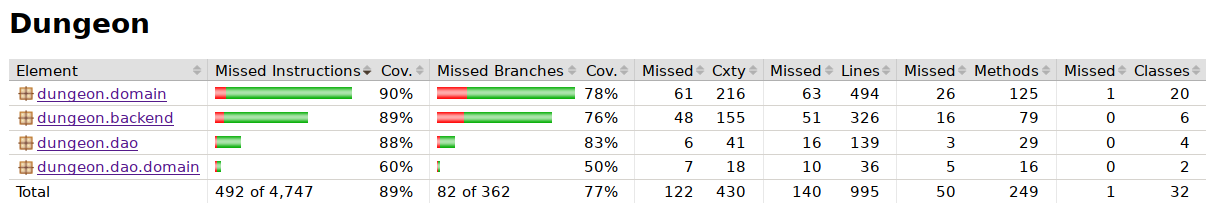
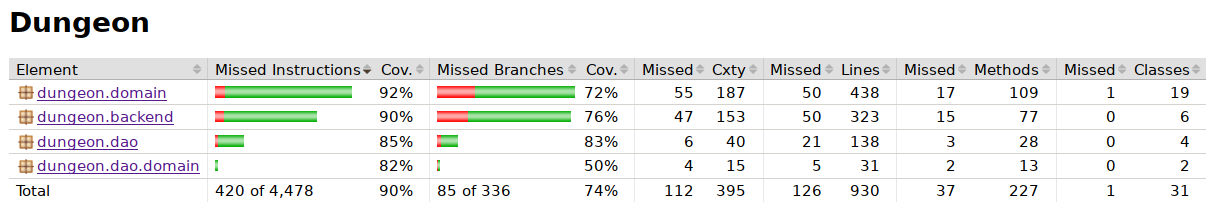
removed dead code

diff --git a/Dungeon/src/main/java/dungeon/domain/Node.java b/Dungeon/src/main/java/dungeon/domain/Node.java
@@ -43,18 +43,8 @@ public class Node implements Comparable<Node> {
         return this;
     }
 
-    public Node translate(Direction direction, int distance) {
-        this.x += direction.getDifferenceX();
-        this.y += direction.getDifferenceY();
-        return this;
-    }
-
     public Node translateToNew(Direction direction) {
         return new Node(this.x + direction.getDifferenceX(), this.y + direction.getDifferenceY());
-    }
-
-    public Node translateToNew(Direction direction, int distance) {
-        return new Node(this.x + direction.getDifferenceX(), this.y + direction.getDifferenceY(), distance);
     }
 
     public double differenceTo(Node that) {
@@ -71,11 +61,23 @@ public class Node implements Comparable<Node> {
         return this.distance - that.distance;
     }
 
+    /**
+     * For HashMaps. I'm not going to take risks by removing this.
+     *
+     * @return
+     */
     @Override
     public int hashCode() {
         return y * 10000 + y;
     }
 
+    /**
+     * Can't remember if I've used a List of Nodes or a Map of Nodes anywhere in
+     * code or in testing. This may be needed.
+     *
+     * @param o
+     * @return
+     */
     @Override
     public boolean equals(Object o) {
         if (o == null || o.getClass() != this.getClass()) {
@@ -85,10 +87,4 @@ public class Node implements Comparable<Node> {
         Node that = (Node) o;
         return this.x == that.x && this.y == that.y;
     }
-
-    @Override
-    public String toString() {
-        return "(" + x + ", " + y + ")";
-    }
-
 }

diff --git a/Dungeon/src/main/java/dungeon/domain/Direction.java b/Dungeon/src/main/java/dungeon/domain/Direction.java
@@ -3,9 +3,6 @@
  */
 package dungeon.domain;
 
-import java.util.ArrayList;
-import java.util.List;
-
 public enum Direction {
 
     /* this enumerator should map directions to movements */
@@ -18,14 +15,6 @@ public enum Direction {
     EAST(1, 0, 100),
     NORTHEAST(1, -1, 141);
 
-    private final static List<Direction> CARDINAL = new ArrayList<Direction>() {
-        {
-            add(NORTH);
-            add(WEST);
-            add(SOUTH);
-            add(EAST);
-        }
-    };
     private final int differenceX;
     private final int differenceY;
     private final int cost;
@@ -34,10 +23,6 @@ public enum Direction {
         this.differenceX = differenceX;
         this.differenceY = differenceY;
         this.cost = cost;
-    }
-
-    public List<Direction> cardinal() {
-        return CARDINAL;
     }
 
     public int getDifferenceX() {
@@ -50,25 +35,5 @@ public enum Direction {
 
     public int cost() {
         return cost;
-    }
-
-    public Direction opposite() {
-        if (this == NORTH) {
-            return SOUTH;
-        } else if (this == NORTHWEST) {
-            return SOUTHEAST;
-        } else if (this == WEST) {
-            return EAST;
-        } else if (this == SOUTHWEST) {
-            return NORTHEAST;
-        } else if (this == SOUTH) {
-            return NORTH;
-        } else if (this == SOUTHEAST) {
-            return NORTHWEST;
-        } else if (this == EAST) {
-            return WEST;
-        } else {
-            return SOUTHWEST;
-        }
     }
 }

diff --git a/Dungeon/src/main/java/dungeon/ui/TileMapper.java b/Dungeon/src/main/java/dungeon/ui/TileMapper.java
@@ -42,14 +42,6 @@ public class TileMapper {
         this.tileSet = new Image(filename);
     }
 
-    public void drawFrame(char[][] map, double[][] losMap, int centerX, int centerY) {
-        int offsetX = centerX - resolutionX / tileSize / 2;
-        int offsetY = centerY - resolutionY / tileSize / 2;
-
-        drawGrid(offsetX, offsetY, map);
-        drawGrid(offsetX, offsetY, losMap);
-    }
-
     public void drawFrame(char[][] levelMap, MapObject[][] objectMap, double[][] losMap, int centerX, int centerY) {
         int offsetX = centerX - resolutionX / tileSize / 2;
         int offsetY = centerY - resolutionY / tileSize / 2;
@@ -58,12 +50,6 @@ public class TileMapper {
         drawGrid(offsetX, offsetY, objectMap);
         drawGrid(offsetX, offsetY, losMap);
     }
-
-    public void drawDebugFrame(char[][] map, double[][] losMap, Color[][] colors, int centerX, int centerY) {
-        drawFrame(map, losMap, centerX, centerY);
-        drawColorMap(colors, centerX, centerY);
-    }
-
     public void drawDebugFrame(char[][] levelMap, MapObject[][] objectMap, double[][] losMap, Color[][] colors, int centerX, int centerY) {
         drawFrame(levelMap, objectMap, losMap, centerX, centerY);
         drawColorMap(colors, centerX, centerY);

diff --git a/Dungeon/src/main/java/dungeon/domain/DijkstraMap.java b/Dungeon/src/main/java/dungeon/domain/DijkstraMap.java
@@ -200,39 +200,4 @@ public class DijkstraMap {
         }
         return changed;
     }
-
-    @Override
-    public String toString() {
-        StringBuilder sb = new StringBuilder();
-        if (checkUnformatted()) {
-            return "unformatted array";
-        }
-        for (int y = 0; y < values.length; y++) {
-            for (int x = 0; x < values[0].length; x++) {
-                appendCharacter(y, x, sb);
-            }
-            sb.append("\n");
-        }
-        return sb.toString();
-    }
-
-    private void appendCharacter(int y, int x, StringBuilder sb) {
-        if (values[y][x] != Integer.MAX_VALUE) {
-            if (values[y][x] == 0) {
-                sb.append(".");
-            } else {
-                sb.append((values[y][x] / 100) % 10);
-            }
-        } else {
-            sb.append("#");
-        }
-    }
-
-    private boolean checkUnformatted() {
-        int max = max();
-        if (max == 0) {
-            return true;
-        }
-        return false;
-    }
 }

diff --git a/Dungeon/src/main/java/dungeon/domain/Actor.java b/Dungeon/src/main/java/dungeon/domain/Actor.java
@@ -77,10 +77,6 @@ public abstract class Actor implements Comparable<Actor>, MapObject {
         return nextTurn;
     }
 
-    public void setHealth(int health) {
-        this.health = health;
-    }
-
     public void setMaxHealth(double maxHealth) {
         this.maxHealth = maxHealth;
     }
@@ -91,10 +87,6 @@ public abstract class Actor implements Comparable<Actor>, MapObject {
 
     public Node getPosition() {
         return position;
-    }
-
-    public void setPosition(Node position) {
-        this.position = position;
     }
 
     public double getHealth() {

diff --git a/Dungeon/src/main/java/dungeon/domain/Monster.java b/Dungeon/src/main/java/dungeon/domain/Monster.java
@@ -61,18 +61,6 @@ public class Monster extends Actor {
         this.state = state;
     }
 
-    public void setVisionRatio(double visionRatio) {
-        this.visionRatio = visionRatio;
-    }
-
-    public void setAlertRadius(double alertRadius) {
-        this.alertRadius = alertRadius;
-    }
-
-    public double getFleeThreshold() {
-        return fleeThreshold;
-    }
-
     public void setFleeThreshold(double fleeThreshold) {
         this.fleeThreshold = fleeThreshold;
     }

diff --git a/Dungeon/src/main/java/dungeon/dao/domain/Record.java b/Dungeon/src/main/java/dungeon/dao/domain/Record.java
@@ -44,21 +44,8 @@ public class Record {
         this.id = id;
     }
 
-    public void setScore(Integer score) {
-        this.score = score;
-    }
-
-    public void setDifficulty(Difficulty difficulty) {
-        this.difficulty = difficulty;
-    }
-
     public void setPerson(Person person) {
         this.person = person;
-    }
-
-    @Override
-    public String toString() {
-        return person + ": " + Integer.toString(score) + " (" + difficulty + ")";
     }
 
 }

diff --git a/Dungeon/src/main/java/dungeon/dao/PersonDao.java b/Dungeon/src/main/java/dungeon/dao/PersonDao.java
@@ -62,7 +62,6 @@ public class PersonDao implements Dao<Person> {
         person.setId(id);
     }
 
-    @Override
     public Person read(Integer key) throws SQLException {
         Connection conn = openConnection();
         PreparedStatement s = conn.prepareStatement("select * from Person where id = ?;");

diff --git a/Dungeon/src/main/java/dungeon/backend/Game.java b/Dungeon/src/main/java/dungeon/backend/Game.java
@@ -157,7 +157,7 @@ public class Game {
 
     private void addActor(Actor actor) {
         if (queue.size() > 0) {
-            actor.setNextTurn(queue.peek().getNextTurn() + 100);
+            actor.setNextTurn(queue.peek().getNextTurn());
         } else {
             actor.setNextTurn(0);
         }

diff --git a/Dungeon/src/main/java/dungeon/dao/RecordDao.java b/Dungeon/src/main/java/dungeon/dao/RecordDao.java
@@ -140,9 +140,4 @@ public class RecordDao implements Dao<Record> {
         s.executeUpdate();
         conn.close();
     }
-
-    @Override
-    public Record read(Integer key) throws SQLException {
-        throw new UnsupportedOperationException("Not supported for this class.");
-    }
 }

diff --git a/Dungeon/src/main/java/dungeon/ui/ViewManager.java b/Dungeon/src/main/java/dungeon/ui/ViewManager.java
@@ -48,7 +48,7 @@ public class ViewManager {
 
     /**
      * Quits the application. Putting the exit method here in case I need to
-     * save something on exit.
+     * save something on exit in the future.
      */
     public void quit() {
         Platform.exit();

diff --git a/Dungeon/src/main/java/dungeon/dao/Dao.java b/Dungeon/src/main/java/dungeon/dao/Dao.java
@@ -10,8 +10,6 @@ public interface Dao<T> {
 
     public T create(T t) throws SQLException;
 
-    public T read(Integer key) throws SQLException;
-
     public List<T> list() throws SQLException;
 
     public void delete(Integer key) throws SQLException;
